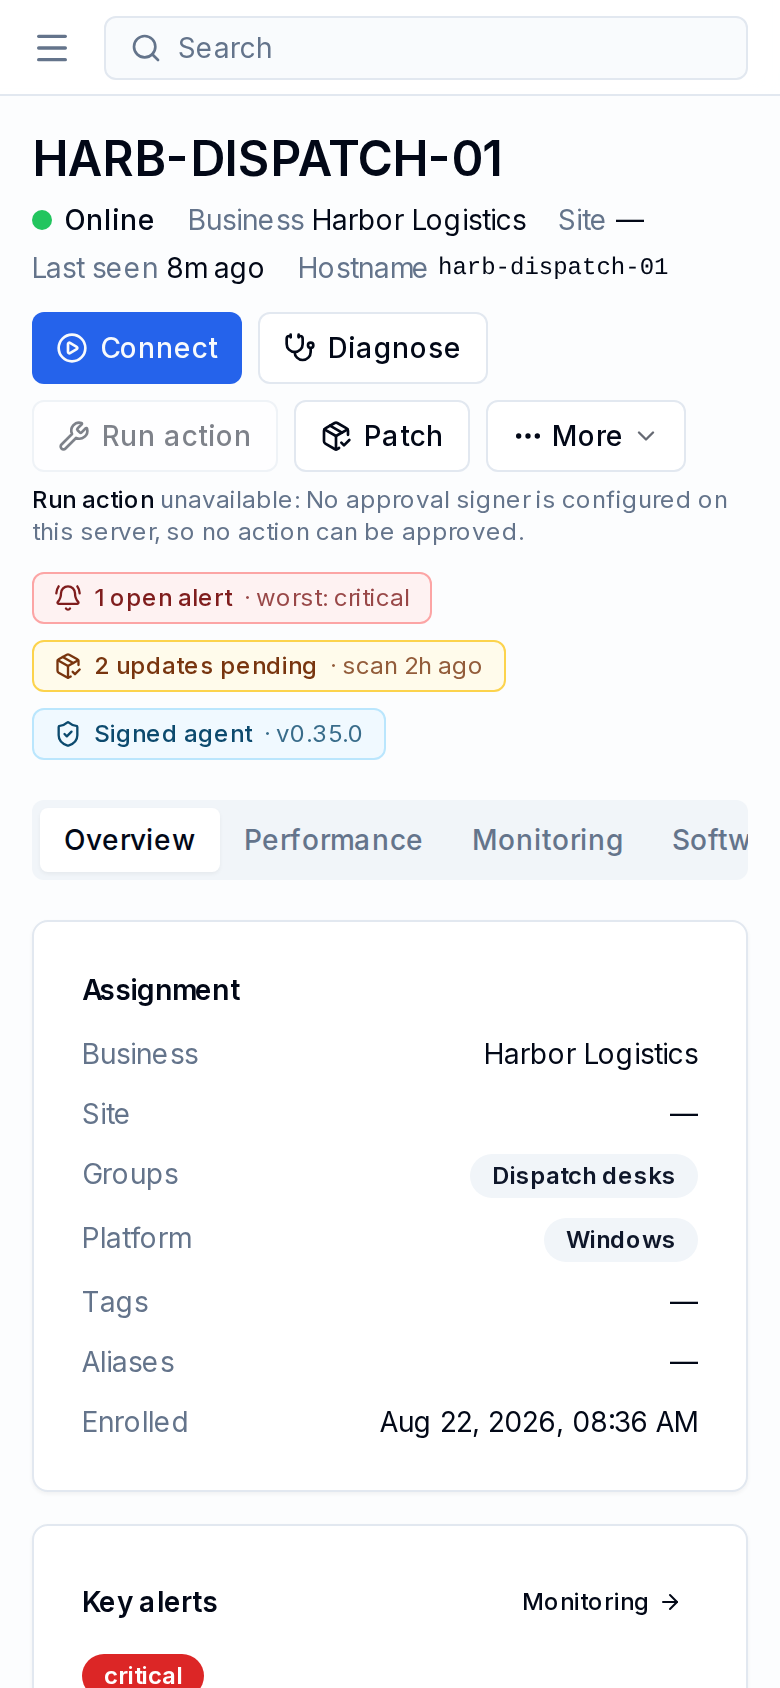
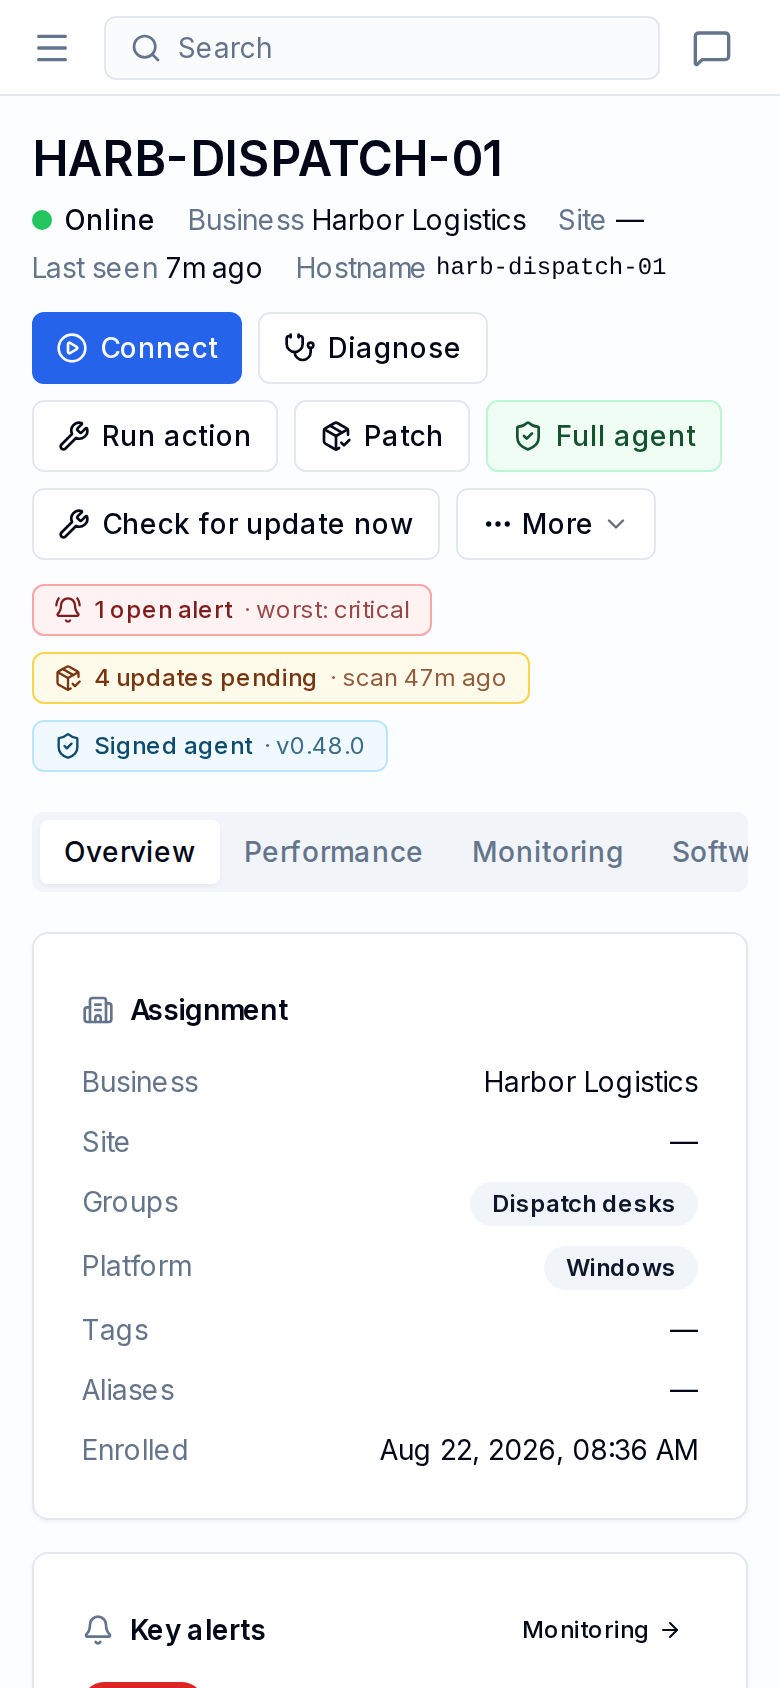
v0.50.4 Roster: a computer's Overview lines up; nothing under Settings scrolls sideways
Overview: Patch status fills its cell with its link in the header, the Agent
card spans two rows so Patch status and Recent activity stack beside it, one
CardHeading for every card, Updates spans both columns, Patch status rows are a
grid. Settings: tab strips wrap (the /settings strip scrolled 164 px at every
width), Access control tables scroll inside their card, the TLS toolbar wraps,
and form pages are capped at max-w-4xl / max-w-5xl.

diff --git a/apps/web/components/endpoints/workspace/overview-tab.tsx b/apps/web/components/endpoints/workspace/overview-tab.tsx
@@ -2,11 +2,12 @@
 
 import Link from 'next/link';
 import { useQuery } from '@tanstack/react-query';
-import { ArrowRight } from 'lucide-react';
+import { ArrowRight, Bell, Building2, History, ShieldCheck } from 'lucide-react';
 import { notesApi } from '@/lib/api-client';
 import { Badge } from '@/components/ui/badge';
 import { Button } from '@/components/ui/button';
-import { Card, CardContent, CardHeader, CardTitle } from '@/components/ui/card';
+import { Card, CardContent } from '@/components/ui/card';
+import { CardHeading } from '@/components/endpoints/card-heading';
 import { SeverityBadge, StateBadge } from '@/components/monitoring/alerts';
 import { EndpointSpecs, Row } from '@/components/endpoints/endpoint-specs';
 import { PatchSummaryCard, type Patches } from '@/components/endpoints/endpoint-patches';
@@ -31,15 +32,12 @@ function OpenTab({ tab, label, onOpen }: { tab: WorkspaceTab; label: string; onO
   );
 }
 
-function SummaryCard({ title, aside, children, testId }: { title: string; aside?: React.ReactNode; children: React.ReactNode; testId?: string }) {
+function SummaryCard({ title, icon, aside, children, testId }: {
+  title: string; icon: React.ComponentType<{ className?: string }>; aside?: React.ReactNode; children: React.ReactNode; testId?: string;
+}) {
   return (
     <Card data-testid={testId}>
-      <CardHeader className="pb-3">
-        <div className="flex items-center justify-between gap-2">
-          <CardTitle className="text-sm">{title}</CardTitle>
-          {aside}
-        </div>
-      </CardHeader>
+      <CardHeading title={title} icon={icon} aside={aside} />
       <CardContent className="space-y-2.5 text-sm">{children}</CardContent>
     </Card>
   );
@@ -86,8 +84,8 @@ export function DeviceOverviewTab({
 
   return (
     <div className="space-y-4">
-      <div className="grid grid-cols-1 lg:grid-cols-2 gap-4">
-        <SummaryCard title="Assignment">
+      <div className="grid grid-cols-1 items-stretch gap-4 lg:grid-cols-2">
+        <SummaryCard title="Assignment" icon={Building2}>
           <Row label="Business">{customer?.name ?? '—'}</Row>
           <Row label="Site">{site?.name ?? '—'}</Row>
           <Row label="Groups">
@@ -115,7 +113,7 @@ export function DeviceOverviewTab({
         </SummaryCard>
 
         {showAlertsAndPatches && (
-          <SummaryCard title="Key alerts" testId="overview-alerts" aside={<OpenTab tab="monitoring" label="Monitoring" onOpen={onOpenTab} />}>
+          <SummaryCard title="Key alerts" icon={Bell} testId="overview-alerts" aside={<OpenTab tab="monitoring" label="Monitoring" onOpen={onOpenTab} />}>
             {!mon ? (
               <p className="text-muted-foreground">Loading…</p>
             ) : mon.alerts === null ? (
@@ -137,17 +135,21 @@ export function DeviceOverviewTab({
         )}
 
         {showAlertsAndPatches && (
-          <div className="space-y-2" data-testid="overview-patches">
-            {patches ? <PatchSummaryCard s={patches.summary} platform={ep.platform} /> : (
-              <SummaryCard title="Patch status"><p className="text-muted-foreground">Loading…</p></SummaryCard>
+          <div className="flex flex-col [&>*]:flex-1" data-testid="overview-patches">
+            {patches ? (
+              <PatchSummaryCard s={patches.summary} platform={ep.platform} aside={<OpenTab tab="patches" label="Updates offered and history on Patches" onOpen={onOpenTab} />} />
+            ) : (
+              <SummaryCard title="Patch status" icon={ShieldCheck}><p className="text-muted-foreground">Loading…</p></SummaryCard>
             )}
-            <div className="flex justify-end"><OpenTab tab="patches" label="Updates offered and history on Patches" onOpen={onOpenTab} /></div>
           </div>
         )}
 
-        {agentCard}
+        {/* The Agent card is the tallest: it takes the right column's second
+            and third rows, so Patch status and Recent activity stack beside it
+            instead of Recent activity sitting alone under Patch status. */}
+        {agentCard && <div className="flex flex-col lg:row-span-2 [&>*]:flex-1">{agentCard}</div>}
 
-        <SummaryCard title="Recent activity" testId="overview-activity" aside={<OpenTab tab="history" label="History" onOpen={onOpenTab} />}>
+        <SummaryCard title="Recent activity" icon={History} testId="overview-activity" aside={<OpenTab tab="history" label="History" onOpen={onOpenTab} />}>
           {activity.length === 0 ? (
             <p className="text-muted-foreground">Nothing recorded yet: no sessions, notes or inventory changes.</p>
           ) : (

diff --git a/apps/web/components/endpoints/endpoint-specs.tsx b/apps/web/components/endpoints/endpoint-specs.tsx
@@ -6,7 +6,8 @@ import { clientUpdatesApi, endpointsApi } from '@/lib/api-client';
 import { HOLD_LABEL, type EndpointPolicy } from '@/lib/client-updates';
 import { Button } from '@/components/ui/button';
 import { Badge } from '@/components/ui/badge';
-import { Card, CardContent, CardHeader, CardTitle } from '@/components/ui/card';
+import { Card, CardContent } from '@/components/ui/card';
+import { CardHeading } from './card-heading';
 import { useToast } from '@/hooks/use-toast';
 import { formatDate } from '@/lib/utils';
 import { updateSourceLabel, updateSourcePhrase } from '@/lib/platform-wording';
@@ -158,24 +159,17 @@ function UsageBar({ used, total }: { used: number; total: number }) {
 // --- Cards ------------------------------------------------------------------
 
 function SectionCard({
-  title, icon: Icon, children, aside,
+  title, icon, children, aside, className,
 }: {
   title: string;
   icon: React.ComponentType<{ className?: string }>;
   children: React.ReactNode;
   aside?: React.ReactNode;
+  className?: string;
 }) {
   return (
-    <Card>
-      <CardHeader className="pb-3">
-        <div className="flex items-center justify-between gap-2">
-          <CardTitle className="text-sm flex items-center gap-2">
-            <Icon className="h-4 w-4 text-muted-foreground" />
-            {title}
-          </CardTitle>
-          {aside}
-        </div>
-      </CardHeader>
+    <Card className={className}>
+      <CardHeading title={title} icon={icon} aside={aside} />
       <CardContent className="space-y-2.5 text-sm">{children}</CardContent>
     </Card>
   );
@@ -214,6 +208,9 @@ function UpdatesCard({ data, platform, onOpenPatches, endpointId }: { data: Inve
     <SectionCard
       title="Updates"
       icon={PackageCheck}
+      // The seventh card of a two-column grid: across both columns, so the
+      // grid ends square instead of with half a row empty (0.50.4).
+      className="lg:col-span-2"
       aside={
         count !== null && count > 0 ? (
           <Badge variant="destructive" className="text-xs">{count} pending</Badge>
@@ -222,6 +219,8 @@ function UpdatesCard({ data, platform, onOpenPatches, endpointId }: { data: Inve
         ) : null
       }
     >
+      <div className="grid grid-cols-1 gap-x-8 gap-y-2.5 lg:grid-cols-2">
+      <div className="min-w-0 space-y-2.5">
       <Row label={updateSourceLabel(platform)}>
         {count === null ? (
           <span className="text-muted-foreground">Not checked yet</span>
@@ -247,9 +246,11 @@ function UpdatesCard({ data, platform, onOpenPatches, endpointId }: { data: Inve
         </div>
       )}
 
+      </div>
+
       {/* Three different things can be out of date on a managed machine and
           confusing them wastes time, so each is named rather than merged. */}
-      <div className="pt-1 border-t space-y-2.5">
+      <div className="min-w-0 pt-2.5 border-t space-y-2.5 lg:pt-0 lg:border-t-0 lg:border-l lg:pl-8">
         <Row label="Rem0te agent">
           {data.agent.version ? (
             <>
@@ -293,6 +294,7 @@ function UpdatesCard({ data, platform, onOpenPatches, endpointId }: { data: Inve
             </div>
           </Row>
         )}
+      </div>
       </div>
 
       {/* The count is a summary; the Patches tab has the scan's evidence, its
@@ -514,7 +516,7 @@ export function EndpointSpecs({
         </div>
       )}
 
-      <div className="flex items-center justify-between gap-2">
+      <div className="flex flex-wrap items-center justify-between gap-2">
         <p className="text-xs text-muted-foreground">
           {inv?.collectedAt
             ? `Collected ${ago(inv.collectedAt)}`

diff --git a/apps/web/components/endpoints/endpoint-patches.tsx b/apps/web/components/endpoints/endpoint-patches.tsx
@@ -6,6 +6,7 @@ import { useMutation, useQuery, useQueryClient } from '@tanstack/react-query';
 import { endpointsApi, patchingApi } from '@/lib/api-client';
 import { Button } from '@/components/ui/button';
 import { Badge } from '@/components/ui/badge';
+import { CardHeading } from './card-heading';
 import { Card, CardContent, CardHeader, CardTitle } from '@/components/ui/card';
 import { Input } from '@/components/ui/input';
 import { Label } from '@/components/ui/label';
@@ -76,14 +77,14 @@ const MANAGED: Record<Summary['managedBy']['state'], string> = { rem0te_or_windo
 const age = (h: number | null) => (h == null ? '' : h < 1 ? 'under an hour old' : h < 48 ? `${Math.round(h)} h old` : `${Math.round(h / 24)} days old`);
 
 /** The evidence first: where it came from, how old it is, and who manages updates here. */
-export function PatchSummaryCard({ s, platform }: { s: Summary; platform?: unknown }) {
+export function PatchSummaryCard({ s, platform, aside, className }: { s: Summary; platform?: unknown; aside?: React.ReactNode; className?: string }) {
   // Linux and macOS (0.35): their own package manager, no KBs, and nothing rem0te deploys.
   const os = osName(platform);
   const posix = os === 'Linux' || os === 'macOS';
-  const row = (k: string, v: React.ReactNode) => (<div className="flex flex-wrap gap-x-2"><dt className="text-muted-foreground w-44 shrink-0">{k}</dt><dd className="min-w-0">{v}</dd></div>);
+  const row = (k: string, v: React.ReactNode) => (<div className="grid grid-cols-1 gap-x-2 sm:grid-cols-[11rem_minmax(0,1fr)]"><dt className="text-muted-foreground">{k}</dt><dd className="min-w-0 break-words">{v}</dd></div>);
   return (
-    <Card data-testid="patch-summary">
-      <CardHeader className="pb-3"><CardTitle className="text-sm">Patch status</CardTitle></CardHeader>
+    <Card data-testid="patch-summary" className={className}>
+      <CardHeading title="Patch status" icon={ShieldCheck} aside={aside} />
       <CardContent className="space-y-3 text-xs">
         <dl className="space-y-1.5">
           {row('Evidence', <span className="flex flex-wrap items-center gap-2">{SOURCE[s.evidence.source]}<Badge variant={FRESH[s.evidence.freshness]} className="text-[10px]">{s.evidence.freshness === 'none' ? 'unknown' : s.evidence.freshness}</Badge>{s.evidence.at && <span className="text-muted-foreground">{formatDate(s.evidence.at)} · {age(s.evidence.ageHours)}</span>}</span>)}

diff --git a/apps/web/components/endpoints/workspace/agent-card.tsx b/apps/web/components/endpoints/workspace/agent-card.tsx
@@ -2,12 +2,13 @@
 
 import Link from 'next/link';
 import { useMutation, useQueryClient } from '@tanstack/react-query';
-import { Copy, Loader2, Wrench } from 'lucide-react';
+import { Bot, Copy, Loader2, Wrench } from 'lucide-react';
 import { endpointsApi } from '@/lib/api-client';
 import { useToast } from '@/hooks/use-toast';
 import { Badge } from '@/components/ui/badge';
 import { Button } from '@/components/ui/button';
-import { Card, CardContent, CardHeader, CardTitle } from '@/components/ui/card';
+import { Card, CardContent } from '@/components/ui/card';
+import { CardHeading } from '@/components/endpoints/card-heading';
 import { Row } from '@/components/endpoints/endpoint-specs';
 import { formatDate } from '@/lib/utils';
 import { useAsks } from '@/lib/confirm-policy';
@@ -186,15 +187,12 @@ export function AgentCard({ endpointId, canEdit, alerts }: { endpointId: string;
 
   return (
     <Card id="agent-card" data-testid="agent-card" className="scroll-mt-4">
-      <CardHeader className="pb-3">
-        <div className="flex items-center justify-between gap-2">
-          <CardTitle className="text-sm">Agent</CardTitle>
-          <span className="flex items-center gap-3">
-            <Link href="/endpoints/full-agent" className="text-xs text-muted-foreground underline-offset-2 hover:underline" data-testid="agent-card-full-agent">Full agent</Link>
-            <Link href="/endpoints/agent-migrations" className="text-xs text-muted-foreground underline-offset-2 hover:underline">Agent migrations</Link>
-          </span>
-        </div>
-      </CardHeader>
+      <CardHeading title="Agent" icon={Bot} aside={
+        <span className="flex items-center gap-3">
+          <Link href="/endpoints/full-agent" className="text-xs text-muted-foreground underline-offset-2 hover:underline" data-testid="agent-card-full-agent">Full agent</Link>
+          <Link href="/endpoints/agent-migrations" className="text-xs text-muted-foreground underline-offset-2 hover:underline">Agent migrations</Link>
+        </span>
+      } />
       <CardContent className="space-y-2.5 text-sm">
         {isLoading ? <p className="text-muted-foreground">Loading…</p> : isError || !a ? <p className="text-muted-foreground">The agent’s details could not be loaded.</p> : (
           <>

diff --git a/apps/web/app/(app)/admin/access/page.tsx b/apps/web/app/(app)/admin/access/page.tsx
@@ -226,7 +226,7 @@ function BusinessesTab() {
       </div>
 
       <Card>
-        <CardContent className="p-0">
+        <CardContent className="p-0 overflow-x-auto">
           {isLoading ? (
             <div className="p-8 text-center text-sm text-muted-foreground">Loading…</div>
           ) : businesses.length === 0 ? (
@@ -554,7 +554,7 @@ function BusinessUsersTab({ businesses }: { businesses: Business[] }) {
       </div>
 
       <Card>
-        <CardContent className="p-0">
+        <CardContent className="p-0 overflow-x-auto">
           {isLoading ? (
             <div className="p-8 text-center text-sm text-muted-foreground">Loading…</div>
           ) : memberships.length === 0 ? (
@@ -599,7 +599,7 @@ function BusinessUsersTab({ businesses }: { businesses: Business[] }) {
                       </Badge>
                     </td>
                     <td className="px-4 py-3">
-                      <div className="flex justify-end gap-1">
+                      <div className="flex flex-wrap justify-end gap-1">
                         {m.accessLevel === 'Business User' && (
                           <Button size="sm" variant="outline" onClick={() => setEditing(m)}>
                             <UserCog className="mr-1.5 h-3.5 w-3.5" /> Permissions
@@ -813,7 +813,7 @@ function PlatformAdminsTab() {
       </Card>
 
       <Card>
-        <CardContent className="p-0">
+        <CardContent className="p-0 overflow-x-auto">
           {isLoading ? (
             <div className="p-8 text-center text-sm text-muted-foreground">Loading…</div>
           ) : (
@@ -920,7 +920,7 @@ export default function AccessControlPage() {
       />
 
       <Tabs defaultValue="overview">
-        <TabsList>
+        <TabsList className="h-auto flex-wrap">
           <TabsTrigger value="overview">Overview</TabsTrigger>
           <TabsTrigger value="businesses">Businesses</TabsTrigger>
           <TabsTrigger value="users">Business Users</TabsTrigger>

diff --git a/apps/web/components/endpoints/card-heading.tsx b/apps/web/components/endpoints/card-heading.tsx
@@ -1,0 +1,29 @@
+import * as React from 'react';
+import { CardHeader, CardTitle } from '@/components/ui/card';
+
+/**
+ * The one card header on a computer's page (0.50.4): an icon, the title and
+ * an optional aside (a link, a badge, an age) on one line. `min-h-7` is the
+ * height of the small ghost button an aside often is, so a card with a link
+ * in its header and one without line their titles up across a row; the aside
+ * wraps under the title on a narrow card instead of squeezing it.
+ */
+export function CardHeading({
+  title, icon: Icon, aside,
+}: {
+  title: React.ReactNode;
+  icon?: React.ComponentType<{ className?: string }>;
+  aside?: React.ReactNode;
+}) {
+  return (
+    <CardHeader className="pb-3">
+      <div className="flex min-h-7 flex-wrap items-center justify-between gap-x-2 gap-y-1">
+        <CardTitle className="text-sm flex min-w-0 items-center gap-2">
+          {Icon && <Icon className="h-4 w-4 shrink-0 text-muted-foreground" />}
+          {title}
+        </CardTitle>
+        {aside && <div className="ml-auto flex items-center">{aside}</div>}
+      </div>
+    </CardHeader>
+  );
+}

diff --git a/apps/web/app/(app)/settings/psa/page.tsx b/apps/web/app/(app)/settings/psa/page.tsx
@@ -153,7 +153,7 @@ export default function PsaSettingsPage() {
   const owner = isBusinessOwner && !technician && !!businessId;
   if (!isPlatformAdmin && !owner) return <div className="p-6 text-sm text-muted-foreground">Where tickets are sent is set by a Platform Admin, or by the Business Owner for their business.</div>;
   return (
-    <div className="space-y-4 p-4 md:p-6">
+    <div className="max-w-4xl space-y-4 p-4 md:p-6">
       <Link href="/settings" className="inline-flex items-center text-sm text-muted-foreground hover:underline"><ArrowLeft className="mr-1 h-4 w-4" />Settings</Link>
       <PageHeader title="PSA / ticketing" description="Where “Create ticket” on an event-log entry or alert sends. A business's own connector wins; otherwise the platform default is used." />
       {notice && <div className={`rounded-md border p-3 text-sm ${notice.ok ? 'border-emerald-300 bg-emerald-50 text-emerald-900 dark:bg-emerald-950 dark:text-emerald-100' : 'border-destructive/40 bg-destructive/10 text-destructive'}`}>{notice.text}</div>}

diff --git a/apps/web/app/(app)/settings/ai/page.tsx b/apps/web/app/(app)/settings/ai/page.tsx
@@ -75,7 +75,7 @@ export default function AiSettingsPage() {
   if (!isPlatformAdmin) return <div className="p-6 text-sm text-muted-foreground">The AI provider is configured by a Platform Admin.</div>;
   const set = (p: Partial<Form>) => setF((x) => (x ? { ...x, ...p } : x));
   return (
-    <div className="space-y-4 p-4 md:p-6">
+    <div className="max-w-4xl space-y-4 p-4 md:p-6">
       <Link href="/settings" className="inline-flex items-center text-sm text-muted-foreground hover:underline"><ArrowLeft className="mr-1 h-4 w-4" />Settings</Link>
       <PageHeader title="AI" description="The model provider behind “Ask AI” on event-log entries and alerts. Off until a provider and key are saved and it is switched on." />
       {notice && <div className={`rounded-md border p-3 text-sm ${notice.ok ? 'border-emerald-300 bg-emerald-50 text-emerald-900 dark:bg-emerald-950 dark:text-emerald-100' : 'border-destructive/40 bg-destructive/10 text-destructive'}`}>{notice.text}</div>}

diff --git a/apps/web/app/(app)/settings/email/page.tsx b/apps/web/app/(app)/settings/email/page.tsx
@@ -77,7 +77,7 @@ export default function EmailSettingsPage() {
   if (!isPlatformAdmin) return <div className="p-6 text-sm text-muted-foreground">Outbound email is configured by a Platform Admin.</div>;
   const set = (p: Partial<Form>) => setF((x) => (x ? { ...x, ...p } : x));
   return (
-    <div className="space-y-4 p-4 md:p-6">
+    <div className="max-w-4xl space-y-4 p-4 md:p-6">
       <Link href="/settings" className="inline-flex items-center text-sm text-muted-foreground hover:underline"><ArrowLeft className="mr-1 h-4 w-4" />Settings</Link>
       <PageHeader title="Email" description="The SMTP relay used for alert emails, scheduled reports and address confirmations. Off until it is configured and switched on." />
       {notice && <div className={`rounded-md border p-3 text-sm ${notice.ok ? 'border-emerald-300 bg-emerald-50 text-emerald-900 dark:bg-emerald-950 dark:text-emerald-100' : 'border-destructive/40 bg-destructive/10 text-destructive'}`}>{notice.text}</div>}

diff --git a/apps/web/app/(app)/admin/security/page.tsx b/apps/web/app/(app)/admin/security/page.tsx
@@ -788,8 +788,8 @@ function TlsTab() {
 
   return (
     <div className="space-y-4">
-      <div className="flex items-center justify-between">
-        <div className="flex items-center gap-3 text-sm">
+      <div className="flex flex-wrap items-center justify-between gap-2">
+        <div className="flex flex-wrap items-center gap-3 text-sm">
           <div className="flex items-center gap-1.5">
             <StatusDot ok={!!data?.caddyActive} />
             <span className="text-muted-foreground">Caddy:</span>
@@ -1630,7 +1630,7 @@ export default function SecurityPage() {
       />
 
       <Tabs defaultValue="overview">
-        <TabsList className="mb-4">
+        <TabsList className="mb-4 h-auto flex-wrap">
           <TabsTrigger value="overview">Overview</TabsTrigger>
           <TabsTrigger value="access-rules">Access Rules</TabsTrigger>
           <TabsTrigger value="fail2ban">fail2ban</TabsTrigger>

diff --git a/apps/web/app/(app)/settings/security/containment/page.tsx b/apps/web/app/(app)/settings/security/containment/page.tsx
@@ -127,7 +127,7 @@ export default function ContainmentPage() {
   const reasonOk = reason.trim().length >= 3 && (scope === 'global' || data?.may.business !== 'any' || !!target) && kinds.length > 0;
 
   return (
-    <div className="space-y-4 p-4 md:p-6">
+    <div className="max-w-4xl space-y-4 p-4 md:p-6">
       <Link href="/settings" className="inline-flex items-center text-sm text-muted-foreground hover:underline">
         <ArrowLeft className="mr-1 h-4 w-4" />Settings
       </Link>

diff --git a/apps/web/app/(app)/admin/technicians/page.tsx b/apps/web/app/(app)/admin/technicians/page.tsx
@@ -490,7 +490,7 @@ export default function TechniciansAdminPage() {
       </Card>
 
       <Tabs defaultValue="people">
-        <TabsList>
+        <TabsList className="h-auto flex-wrap">
           <TabsTrigger value="people"><Users className="mr-1.5 h-4 w-4" />People</TabsTrigger>
           <TabsTrigger value="assignments"><KeyRound className="mr-1.5 h-4 w-4" />Assignments</TabsTrigger>
           <TabsTrigger value="groups"><UserCog className="mr-1.5 h-4 w-4" />Groups</TabsTrigger>
